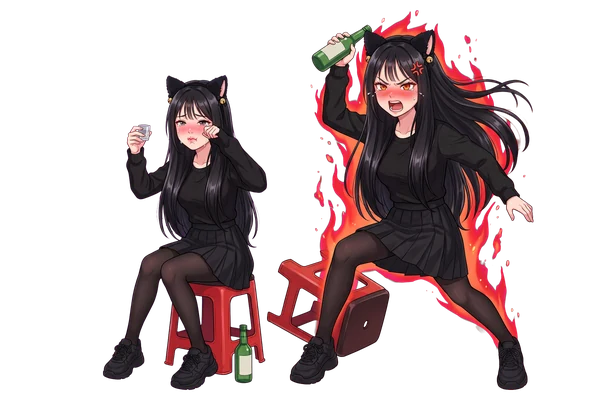
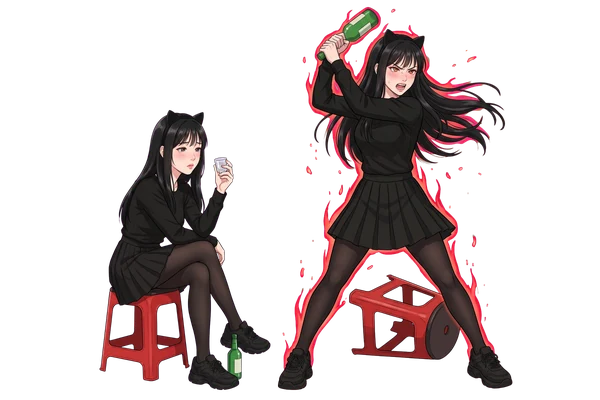
최은옥 그림 3차: 다른 멤버처럼 성숙한 반실사 얼굴 (작은 눈 · 옅은 홍조 · 쓸쓸한 취기 / 분노는 어른의 분노) · 머리 크기를 다른 멤버 그림에 맞춰 배치 · 카드 얼굴 자리(DEX_FACE · FACE_BOX) 다시 · 인게임 띠도 새 얼굴로 · ART_VER 5 · ?v=20261014s
Claude-Session: https://claude.ai/code/session_016zscpnQTe5fAmJRC7J2Wse

diff --git a/public/langbang/game.js b/public/langbang/game.js
@@ -6208,10 +6208,10 @@ const DEX_FLAVOR = {
 };
 // 도감 카드 세로 영문 이름 · 얼굴 위치 (dexhq 전신 그림 기준: 가운데 x, y, 얼굴 폭 — 그림 폭 대비)
 const DEX_EN = { dragon: 'PARK NAYOUNG', subin: 'LIM SUBIN', baul: 'SONG BAUL', byunghwa: 'KANG BYUNGHWA', jeongseob: 'YOON JEONGSEOB', jiwon: 'YEO JIWON', wonsik: 'JUNG WONSIK', bangjang: 'BANGJANG', staff: 'STAFF', gunman: 'MR. CLEAN', gunnyeo: 'MS. CLEAN', myunghoon: 'SEO MYUNGHOON', dohoon: 'KIM DOHOON', ingyu: 'BAEK INGYU', donghan: 'MOON DONGHAN', youngjun: 'KIM YOUNGJUN', eunok: 'CHOI EUNOK', hanna: 'LEE HANNA', sunggu: 'KANG SUNGGU', junseo: 'YOON JUNSEO', hyungyeong: 'BAE HYUNGYEONG', ara: 'KO ARA', hochan: 'LEE HOCHAN', soyoung: 'JEONG SOYOUNG', jieun: 'OH JIEUN', sanghwa: 'PARK SANGHWA', jungmin: 'HONG JUNGMIN' };
-const DEX_FACE = { subin: [0.53, 0.115, 0.13], baul: [0.49, 0.085, 0.12], byunghwa: [0.42, 0.085, 0.11], jeongseob: [0.5, 0.1, 0.13], hochan: [0.49, 0.125, 0.17], bangjang: [0.45, 0.1, 0.15], staff: [0.47, 0.085, 0.13], gunnyeo: [0.47, 0.09, 0.13], eunok: [0.53, 0.248, 0.105], hanna: [0.47, 0.083, 0.13], sunggu: [0.49, 0.09, 0.14], gunman: [0.58, 0.085, 0.13], dohoon: [0.55, 0.09, 0.13], myunghoon: [0.56, 0.1, 0.15], youngjun: [0.49, 0.085, 0.13], donghan: [0.62, 0.11, 0.17], ingyu: [0.48, 0.1, 0.13], junseo: [0.55, 0.11, 0.14], ara: [0.37, 0.32, 0.12], hyungyeong: [0.55, 0.19, 0.2], jungmin: [0.44, 0.11, 0.12], soyoung: [0.47, 0.11, 0.13], jieun: [0.52, 0.12, 0.13], sanghwa: [0.45, 0.07, 0.12], jiwon: [0.48, 0.075, 0.12], wonsik: [0.47, 0.08, 0.12], baul: [0.49, 0.085, 0.12], junyoung: [0.5, 0.2, 0.3] }; // [가로 가운데, 세로 가운데, 얼굴 높이] (그림 대비)
+const DEX_FACE = { subin: [0.53, 0.115, 0.13], baul: [0.49, 0.085, 0.12], byunghwa: [0.42, 0.085, 0.11], jeongseob: [0.5, 0.1, 0.13], hochan: [0.49, 0.125, 0.17], bangjang: [0.45, 0.1, 0.15], staff: [0.47, 0.085, 0.13], gunnyeo: [0.47, 0.09, 0.13], eunok: [0.515, 0.371, 0.1375], hanna: [0.47, 0.083, 0.13], sunggu: [0.49, 0.09, 0.14], gunman: [0.58, 0.085, 0.13], dohoon: [0.55, 0.09, 0.13], myunghoon: [0.56, 0.1, 0.15], youngjun: [0.49, 0.085, 0.13], donghan: [0.62, 0.11, 0.17], ingyu: [0.48, 0.1, 0.13], junseo: [0.55, 0.11, 0.14], ara: [0.37, 0.32, 0.12], hyungyeong: [0.55, 0.19, 0.2], jungmin: [0.44, 0.11, 0.12], soyoung: [0.47, 0.11, 0.13], jieun: [0.52, 0.12, 0.13], sanghwa: [0.45, 0.07, 0.12], jiwon: [0.48, 0.075, 0.12], wonsik: [0.47, 0.08, 0.12], baul: [0.49, 0.085, 0.12], junyoung: [0.5, 0.2, 0.3] }; // [가로 가운데, 세로 가운데, 얼굴 높이] (그림 대비)
 // 얼굴 맞춤 자르기: 얼굴 높이 = 칸 높이의 f · 얼굴 가운데 = (50%, cy) — 그림 비율과 상관없이 (자기 크기 기준 translate)
 // 동그란 얼굴용 얼굴 상자 (썸네일 기준 · 이마~턱 · 가운데 x, 가운데 y, 높이) — 그림을 재서 맞춘 값
-const FACE_BOX = { subin: [0.53, 0.12, 0.095], byunghwa: [0.42, 0.1, 0.075], hochan: [0.44, 0.115, 0.085], bangjang: [0.47, 0.1, 0.085], staff: [0.47, 0.115, 0.09], gunnyeo: [0.39, 0.135, 0.11], eunok: [0.53, 0.255, 0.09], hanna: [0.49, 0.11, 0.11], sunggu: [0.52, 0.165, 0.1], gunman: [0.55, 0.115, 0.09], dohoon: [0.57, 0.165, 0.095], myunghoon: [0.565, 0.145, 0.13], youngjun: [0.575, 0.18, 0.1], donghan: [0.63, 0.19, 0.12], ingyu: [0.45, 0.105, 0.095], junseo: [0.56, 0.115, 0.095], ara: [0.42, 0.32, 0.1], hyungyeong: [0.55, 0.24, 0.12], jungmin: [0.42, 0.155, 0.09], soyoung: [0.45, 0.145, 0.09], jieun: [0.55, 0.145, 0.11], sanghwa: [0.48, 0.11, 0.085], jiwon: [0.47, 0.095, 0.075], wonsik: [0.6, 0.095, 0.09], baul: [0.49, 0.09, 0.085], jeongseob: [0.52, 0.08, 0.075] };
+const FACE_BOX = { subin: [0.53, 0.12, 0.095], byunghwa: [0.42, 0.1, 0.075], hochan: [0.44, 0.115, 0.085], bangjang: [0.47, 0.1, 0.085], staff: [0.47, 0.115, 0.09], gunnyeo: [0.39, 0.135, 0.11], eunok: [0.515, 0.385, 0.1], hanna: [0.49, 0.11, 0.11], sunggu: [0.52, 0.165, 0.1], gunman: [0.55, 0.115, 0.09], dohoon: [0.57, 0.165, 0.095], myunghoon: [0.565, 0.145, 0.13], youngjun: [0.575, 0.18, 0.1], donghan: [0.63, 0.19, 0.12], ingyu: [0.45, 0.105, 0.095], junseo: [0.56, 0.115, 0.095], ara: [0.42, 0.32, 0.1], hyungyeong: [0.55, 0.24, 0.12], jungmin: [0.42, 0.155, 0.09], soyoung: [0.45, 0.145, 0.09], jieun: [0.55, 0.145, 0.11], sanghwa: [0.48, 0.11, 0.085], jiwon: [0.47, 0.095, 0.075], wonsik: [0.6, 0.095, 0.09], baul: [0.49, 0.09, 0.085], jeongseob: [0.52, 0.08, 0.075] };
 // 동그라미 안에 얼굴: 얼굴(이마~턱)이 지름의 70% · 가운데
 function faceCircStyle(id, f = 0.7, cy = 0.5) {
   const fb = (HWUI && HWUI.costumeFace(id)) || FACE_BOX[id] || DEX_FACE[id] || [0.48, 0.12, 0.1]; // (할로윈 의상 썸네일은 의상 얼굴 자리)

diff --git a/public/langbang/index.html b/public/langbang/index.html
@@ -28,14 +28,14 @@
   <link rel="stylesheet" href="https://cdn.jsdelivr.net/gh/orioncactus/pretendard@v1.3.9/dist/web/variable/pretendardvariable-dynamic-subset.min.css">
   <style>#bootld{position:fixed;inset:0;z-index:90;background:#0b0a16;display:grid;place-items:end center;transition:opacity .35s}#bootld .bl-bg{position:absolute;inset:0;width:100%;height:100%;object-fit:cover;opacity:.55}#bootld.out{opacity:0;pointer-events:none}</style>
   <link rel="preload" as="image" href="/img/lb/title_poster.jpg?v=3" fetchpriority="high">
-  <link rel="stylesheet" href="/langbang/style.css?v=20261014r">
-  <link rel="stylesheet" href="/langbang/friends.css?v=20261014r">
-  <link rel="stylesheet" href="/langbang/tower.css?v=20261014r">
-  <link rel="stylesheet" href="/langbang/raid2.css?v=20261014r">
-  <link rel="stylesheet" href="/langbang/bonkae.css?v=20261014r">
-  <link rel="stylesheet" href="/langbang/transit.css?v=20261014r">
-  <link rel="stylesheet" href="/langbang/tutorial.css?v=20261014r">
-  <link rel="stylesheet" href="/langbang/hw.css?v=20261014r">
+  <link rel="stylesheet" href="/langbang/style.css?v=20261014s">
+  <link rel="stylesheet" href="/langbang/friends.css?v=20261014s">
+  <link rel="stylesheet" href="/langbang/tower.css?v=20261014s">
+  <link rel="stylesheet" href="/langbang/raid2.css?v=20261014s">
+  <link rel="stylesheet" href="/langbang/bonkae.css?v=20261014s">
+  <link rel="stylesheet" href="/langbang/transit.css?v=20261014s">
+  <link rel="stylesheet" href="/langbang/tutorial.css?v=20261014s">
+  <link rel="stylesheet" href="/langbang/hw.css?v=20261014s">
 </head>
 <body>
   <div id="stage">
@@ -102,7 +102,7 @@
     <div id="toast" hidden></div>
   </div>
   <noscript>자바스크립트를 켜야 게임을 할 수 있어요.</noscript>
-  <script type="importmap">{"imports": {"/langbang/game.js": "/langbang/game.js?v=20261014r", "/langbang/season-fx.js": "/langbang/season-fx.js?v=20261014r", "/langbang/season.js": "/langbang/season.js?v=20261014r", "/langbang/cardtext.js": "/langbang/cardtext.js?v=20261014r", "/langbang/data.js": "/langbang/data.js?v=20261014r", "/langbang/sim.js": "/langbang/sim.js?v=20261014r", "/langbang/render.js": "/langbang/render.js?v=20261014r", "/langbang/live.js": "/langbang/live.js?v=20261014r", "/langbang/api.js": "/langbang/api.js?v=20261014r", "/langbang/audio.js": "/langbang/audio.js?v=20261014r", "/langbang/share.js": "/langbang/share.js?v=20261014r", "/langbang/flavor.js": "/langbang/flavor.js?v=20261014r", "/langbang/friends.js": "/langbang/friends.js?v=20261014r", "/langbang/tower.js": "/langbang/tower.js?v=20261014r", "/langbang/tower-ui.js": "/langbang/tower-ui.js?v=20261014r", "/langbang/transit.js": "/langbang/transit.js?v=20261014r", "/langbang/hw-event.js": "/langbang/hw-event.js?v=20261014r", "/langbang/hw-sim.js": "/langbang/hw-sim.js?v=20261014r", "/langbang/hw-ui.js": "/langbang/hw-ui.js?v=20261014r", "/langbang/hw-fx.js": "/langbang/hw-fx.js?v=20261014r", "/langbang/patchnotes.js": "/langbang/patchnotes.js?v=20261014r"}}</script>
-  <script type="module" src="/langbang/game.js?v=20261014r"></script>
+  <script type="importmap">{"imports": {"/langbang/game.js": "/langbang/game.js?v=20261014s", "/langbang/season-fx.js": "/langbang/season-fx.js?v=20261014s", "/langbang/season.js": "/langbang/season.js?v=20261014s", "/langbang/cardtext.js": "/langbang/cardtext.js?v=20261014s", "/langbang/data.js": "/langbang/data.js?v=20261014s", "/langbang/sim.js": "/langbang/sim.js?v=20261014s", "/langbang/render.js": "/langbang/render.js?v=20261014s", "/langbang/live.js": "/langbang/live.js?v=20261014s", "/langbang/api.js": "/langbang/api.js?v=20261014s", "/langbang/audio.js": "/langbang/audio.js?v=20261014s", "/langbang/share.js": "/langbang/share.js?v=20261014s", "/langbang/flavor.js": "/langbang/flavor.js?v=20261014s", "/langbang/friends.js": "/langbang/friends.js?v=20261014s", "/langbang/tower.js": "/langbang/tower.js?v=20261014s", "/langbang/tower-ui.js": "/langbang/tower-ui.js?v=20261014s", "/langbang/transit.js": "/langbang/transit.js?v=20261014s", "/langbang/hw-event.js": "/langbang/hw-event.js?v=20261014s", "/langbang/hw-sim.js": "/langbang/hw-sim.js?v=20261014s", "/langbang/hw-ui.js": "/langbang/hw-ui.js?v=20261014s", "/langbang/hw-fx.js": "/langbang/hw-fx.js?v=20261014s", "/langbang/patchnotes.js": "/langbang/patchnotes.js?v=20261014s"}}</script>
+  <script type="module" src="/langbang/game.js?v=20261014s"></script>
 </body>
 </html>

diff --git a/public/langbang/data.js b/public/langbang/data.js
@@ -978,10 +978,10 @@ const ART_READY = new Set(['h_jungmin', 'h_junyoung', 'h_soyoung', 'h_jieun', 'h
 //  바뀐 파일만 적는다 (전부 붙이면 배포마다 모두 다시 받아서 전송량이 폭증) · 다시 바꾸면 숫자를 올린다
 export const ART_VER = {
   h_subin: 2, h_subin_attack: 2, 'dex/subin': 2, 'dexhq/subin': 2, 'dexhq/thumb/subin': 2,
-  h_donghan_attack: 2, h_eunok_attack: 4, h_dragon_attack: 2, e_boss_bestman_attack: 2, e_boss_bestman_skill: 2, e_boss_bestman_rage: 2,
+  h_donghan_attack: 2, h_eunok_attack: 5, h_dragon_attack: 2, e_boss_bestman_attack: 2, e_boss_bestman_skill: 2, e_boss_bestman_rage: 2,
   h_donghan_cafe: 2, h_donghan_cafe_tf: 2, h_donghan_cafe_attack: 2, 'dex/donghan_cafe': 2, 'dexhq/donghan_cafe': 2, 'dexhq/thumb/donghan_cafe': 2, // 문동한 카페인 풀충전 새로 그림 (Gemini)
   'fx/w_card_r': 2, 'fx/w_card_y': 2, // 운영진 레드·옐로카드 광택 카드로 새로 그림 (Gemini)
-  h_eunok: 4, h_eunok_rage: 4, h_eunok_rage_attack: 4, 'dex/eunok': 4, 'dex/eunok_rage': 4, 'dexhq/eunok': 4, 'dexhq/eunok_rage': 4, 'dexhq/eunok_duo': 4, 'dexhq/thumb/eunok': 4, 'dexhq/thumb/eunok_rage': 4, 'dexhq/thumb/eunok_duo': 4, 'fx/w_cup': 3, // 최은옥 술버릇 컨셉 (울면서 소주잔 · 분노 소주병) — 다른 멤버 그림체에 맞춰 다시 그림 (Gemini · 4)
+  h_eunok: 5, h_eunok_rage: 5, h_eunok_rage_attack: 5, 'dex/eunok': 5, 'dex/eunok_rage': 5, 'dexhq/eunok': 5, 'dexhq/eunok_rage': 5, 'dexhq/eunok_duo': 5, 'dexhq/thumb/eunok': 5, 'dexhq/thumb/eunok_rage': 5, 'dexhq/thumb/eunok_duo': 5, 'fx/w_cup': 3, // 최은옥 술버릇 컨셉 (울면서 소주잔 · 분노 소주병) — 다른 멤버 그림체에 맞춰 다시 그림 · 얼굴 성숙하게 · 머리 크기 맞춤 (Gemini · 5)
   'season/halloween_key': 2, // (season.js 의 keyart 주소에도 ?v=2 를 직접 붙였다 — 허브 카드 · 로비 배경)
 };
 export const artV = (u) => { const m = typeof u === 'string' && /^\/img\/lb\/([^?]+)\.webp$/.exec(u); return m && ART_VER[m[1]] ? `${u}?v=${ART_VER[m[1]]}` : u; };
